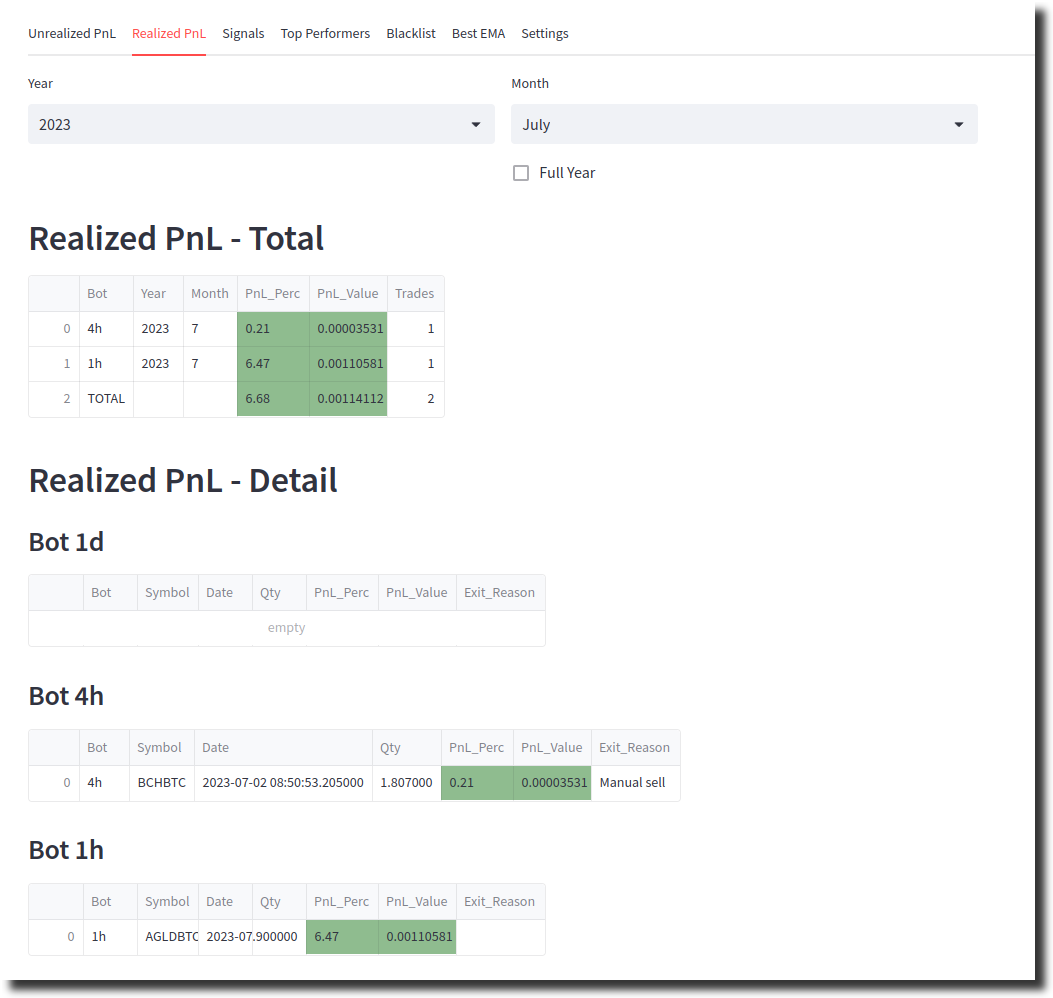
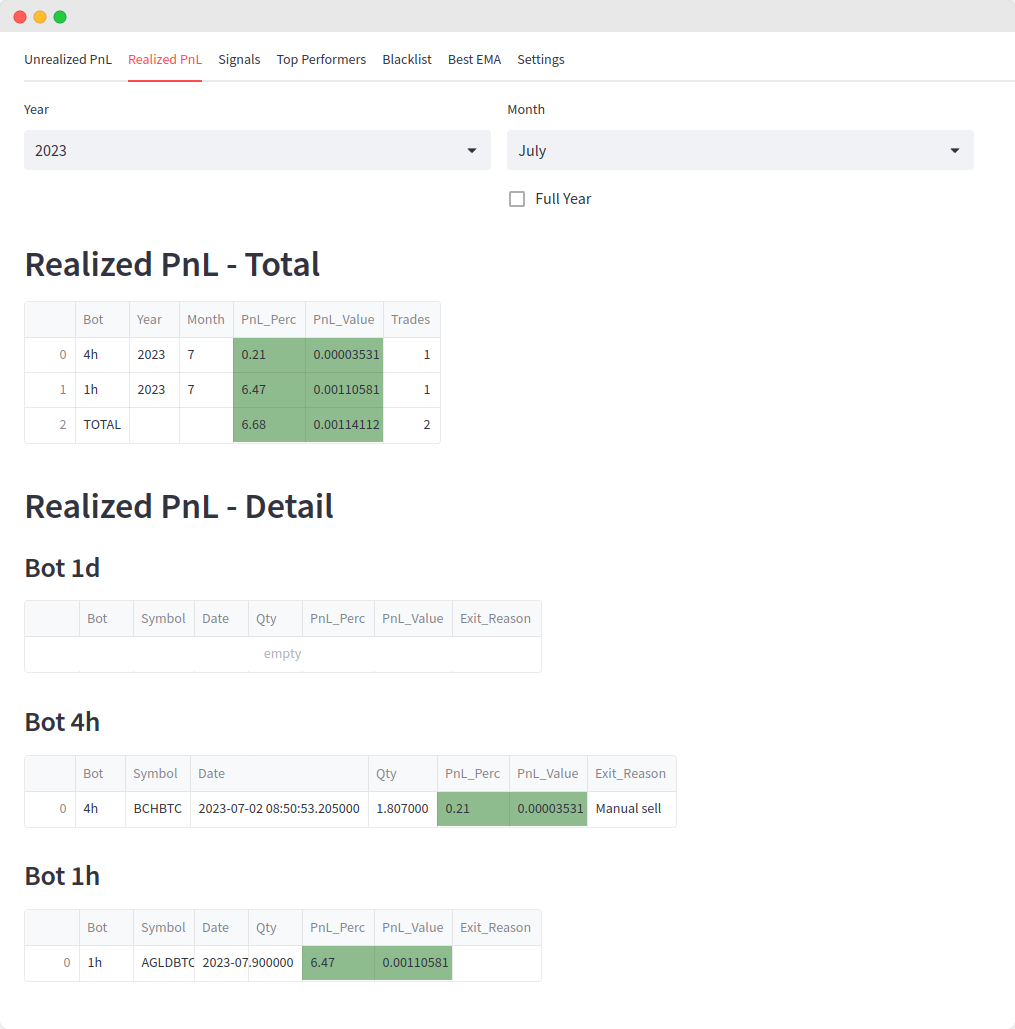
screenshots updated

diff --git a/README.md b/README.md
@@ -27,7 +27,12 @@ Check [here](https://github.com/jptsantossilva/BEC/blob/main/coinpairBestEma%20F
 - Blacklist - coins to be ignored. Bot will not trade them.
 
 ![dashboard](https://raw.githubusercontent.com/jptsantossilva/BEC/main/docs/dashboard.png)
-
+![upnl](https://raw.githubusercontent.com/jptsantossilva/BEC/main/docs/upnl.png)
+![rpnl](https://raw.githubusercontent.com/jptsantossilva/BEC/main/docs/rpnl.png)
+![top_perf](https://raw.githubusercontent.com/jptsantossilva/BEC/main/docs/top_perf.png)
+![blacklist](https://raw.githubusercontent.com/jptsantossilva/BEC/main/docs/blacklist.png)
+![bema](https://raw.githubusercontent.com/jptsantossilva/BEC/main/docs/bema.png)
+![settings](https://raw.githubusercontent.com/jptsantossilva/BEC/main/docs/settings.png)
 ## Disclaimer
 This software is for educational purposes only. Use the software at **your own risk**. The authors and all affiliates assume **no responsibility for your trading results**. **Do not risk money that you are afraid to lose**. There might be **bugs** in the code. This software does not come with **any warranty**.
 
